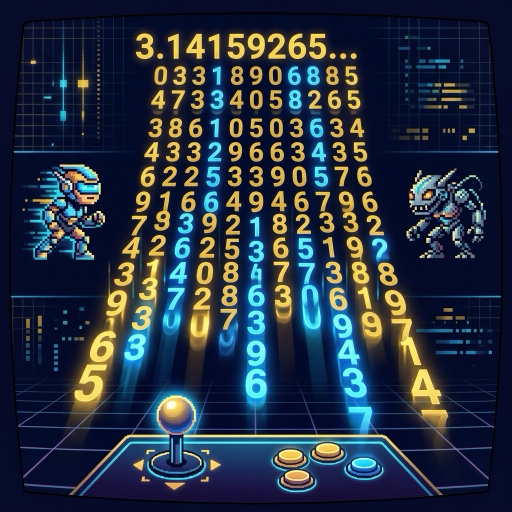
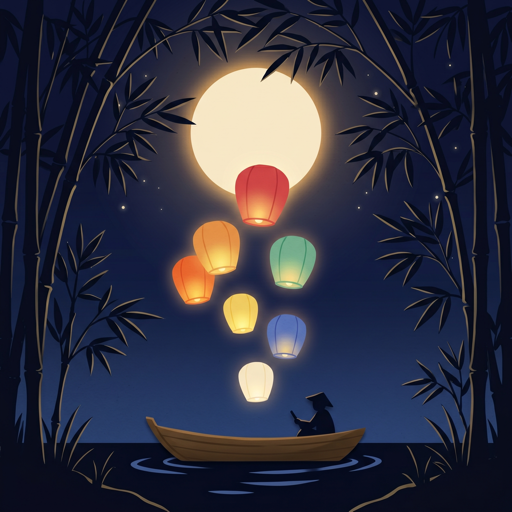
Moon lit ready (#13)
* promote moon-lit

* Promote moon-lit logo

Pull request: Moon lit ready

diff --git a/profile.html b/profile.html
@@ -36,6 +36,8 @@
     <meta name="apple-mobile-web-app-capable" content="yes">
     <meta name="apple-mobile-web-app-status-bar-style" content="black-translucent">
     <meta name="apple-mobile-web-app-title" content="Paul's Arcade">
+    <link rel="shortcut icon" href="images/icon-192.png" type="image/png">
+    <link rel="icon" href="images/icon-192.png" type="image/png" sizes="192x192">
     <link rel="apple-touch-icon" href="images/icon-192.png">
     <link rel="preconnect" href="https://fonts.googleapis.com">
     <link rel="preconnect" href="https://fonts.gstatic.com" crossorigin>
@@ -797,6 +799,31 @@
 
             <div class="card-grid">
 
+                <!-- Moon Lit -->
+                <article class="project-card spotlight-card" id="card-moon-lit">
+                    <div class="project-card__image-wrap">
+                        <img class="project-card__image" src="images/moon-lit.png" alt="Moon Lit — paper lanterns drifting up through bamboo toward a full moon over a still river" loading="lazy">
+                    </div>
+                    <div class="project-card__body">
+                        <h3 class="project-card__name">Moon Lit</h3>
+                        <p class="project-card__subtitle">Lantern-Festival Bubble Shooter</p>
+                        <p class="project-card__desc">
+                            <strong>Send paper lanterns up to the trellis.</strong> A boatman launches glowing lanterns into a hex grid; match three or more of a color to clear them and drop the chains hanging beneath. The trellis presses down every six shots — clear it before the lanterns cross the dead-line.
+                        </p>
+                        <p class="project-card__kicker">Lantern festival under a moonlit sky.</p>
+                        <div class="tech-tags">
+                            <span class="tech-tag">HTML5 Canvas</span>
+                            <span class="tech-tag">JS</span>
+                            <span class="tech-tag">ES Modules</span>
+                            <span class="tech-tag">PWA</span>
+                        </div>
+                        <div class="card-actions">
+                            <a href="https://paulgibeault.github.io/moon-lit/" class="btn btn--play" target="_blank" rel="noopener" id="btn-play-moon-lit">▶ Play</a>
+                            <a href="https://github.com/paulgibeault/moon-lit" class="btn btn--code" target="_blank" rel="noopener" id="btn-code-moon-lit">&lt;/&gt; Code</a>
+                        </div>
+                    </div>
+                </article>
+
                 <!-- Pi Game -->
                 <article class="project-card" id="card-pi-game">
                     <div class="project-card__image-wrap">
@@ -894,32 +921,6 @@
                         <div class="card-actions">
                             <a href="https://paulgibeault.github.io/cozy-solitaire/" class="btn btn--play" target="_blank" rel="noopener" id="btn-play-cozy">▶ Play</a>
                             <a href="https://github.com/paulgibeault/cozy-solitaire" class="btn btn--code" target="_blank" rel="noopener" id="btn-code-cozy">&lt;/&gt; Code</a>
-                        </div>
-                    </div>
-                </article>
-
-                <!-- Moon Lit -->
-                <article class="project-card" id="card-moon-lit">
-                    <div class="project-card__image-wrap in-dev-wrap">
-                        <img class="project-card__image" src="images/moon-lit.png" alt="Moon Lit — paper lanterns drifting up through bamboo toward a full moon over a still river" loading="lazy">
-                        <div class="in-dev-banner" aria-label="In development">In Development</div>
-                    </div>
-                    <div class="project-card__body">
-                        <h3 class="project-card__name">Moon Lit</h3>
-                        <p class="project-card__subtitle">Lantern-Festival Bubble Shooter</p>
-                        <p class="project-card__desc">
-                            <strong>Send paper lanterns up to the trellis.</strong> A boatman launches glowing lanterns into a hex grid; match three or more of a color to clear them and drop the chains hanging beneath. The trellis presses down every six shots — clear it before the lanterns cross the dead-line.
-                        </p>
-                        <p class="project-card__kicker">Lantern festival under a moonlit sky.</p>
-                        <div class="tech-tags">
-                            <span class="tech-tag">HTML5 Canvas</span>
-                            <span class="tech-tag">JS</span>
-                            <span class="tech-tag">ES Modules</span>
-                            <span class="tech-tag">PWA</span>
-                        </div>
-                        <div class="card-actions">
-                            <a href="https://paulgibeault.github.io/moon-lit/" class="btn btn--play" target="_blank" rel="noopener" id="btn-play-moon-lit">▶ Play</a>
-                            <a href="https://github.com/paulgibeault/moon-lit" class="btn btn--code" target="_blank" rel="noopener" id="btn-code-moon-lit">&lt;/&gt; Code</a>
                         </div>
                     </div>
                 </article>
@@ -1273,8 +1274,15 @@
     // PWA INSTALL — Service worker & install flow
     // ==========================================
     (function pwaInstall() {
+        const isLoopback = /^(127\.|localhost$|0\.0\.0\.0$|::1$)/.test(location.hostname);
         if ('serviceWorker' in navigator) {
-            navigator.serviceWorker.register('sw.js').catch(err => console.log('SW registration failed', err));
+            if (isLoopback) {
+                navigator.serviceWorker.getRegistrations()
+                    .then(rs => rs.forEach(r => r.unregister()))
+                    .catch(() => {});
+            } else {
+                navigator.serviceWorker.register('sw.js').catch(err => console.log('SW registration failed', err));
+            }
         }
 
         const installBtn = document.getElementById('install-btn');

diff --git a/index.html b/index.html
@@ -25,7 +25,7 @@
     </script>
     <meta name="viewport" content="width=device-width, initial-scale=1.0">
     <title>Paul's Arcade</title>
-    <meta name="description" content="Paul's Arcade — browser games by Paul Gibeault. Pi Game, Silicon Syndicate, HecknSic, Cozy Solitaire, Moon Lit. No installs, no signups, plays in your browser.">
+    <meta name="description" content="Paul's Arcade — browser games by Paul Gibeault. Moon Lit, Silicon Syndicate, HecknSic, Cozy Solitaire, Pi Game. No installs, no signups, plays in your browser.">
     <meta name="author" content="Paul Gibeault">
     <meta property="og:title" content="Paul's Arcade">
     <meta property="og:description" content="Browser games by Paul Gibeault. No installs, no signups, plays in your browser.">
@@ -36,6 +36,8 @@
     <meta name="apple-mobile-web-app-capable" content="yes">
     <meta name="apple-mobile-web-app-status-bar-style" content="black-translucent">
     <meta name="apple-mobile-web-app-title" content="Paul's Arcade">
+    <link rel="shortcut icon" href="images/icon-192.png" type="image/png">
+    <link rel="icon" href="images/icon-192.png" type="image/png" sizes="192x192">
     <link rel="apple-touch-icon" href="images/icon-192.png">
     <link rel="preconnect" href="https://fonts.googleapis.com">
     <link rel="preconnect" href="https://fonts.gstatic.com" crossorigin>
@@ -331,42 +333,41 @@
     <!-- Game list is mirrored in profile.html (#games section). Update both when adding games. -->
     <div id="view-launcher">
         <div class="launcher-grid" id="launcher-grid-container">
-            <a href="https://paulgibeault.github.io/pi-game/" class="launcher-btn" data-game-id="pi-game" style="animation-delay: 0.0s">
+            <a href="https://paulgibeault.github.io/moon-lit/" class="launcher-btn spotlight-card" data-game-id="moon-lit" style="animation-delay: 0.0s">
+                <div class="launcher-btn__image-wrap">
+                    <img class="launcher-btn__image" src="images/moon-lit.png" alt="Moon Lit">
+                </div>
+                <div class="launcher-btn__body">
+                    <h3 class="launcher-btn__name">Moon Lit</h3>
+                    <p class="launcher-btn__subtitle">Lantern matching</p>
+                </div>
+            </a>
+            <a href="https://paulgibeault.github.io/pi-game/" class="launcher-btn" data-game-id="pi-game" style="animation-delay: 0.1s">
                 <div class="launcher-btn__image-wrap"><img class="launcher-btn__image" src="images/pi-game.png" alt="Pi Game"></div>
                 <div class="launcher-btn__body">
                     <h3 class="launcher-btn__name">Pi Game</h3>
                     <p class="launcher-btn__subtitle">Memorization</p>
                 </div>
             </a>
-            <a href="https://paulgibeault.github.io/si-syn/" class="launcher-btn" data-game-id="si-syn" style="animation-delay: 0.1s">
+            <a href="https://paulgibeault.github.io/si-syn/" class="launcher-btn" data-game-id="si-syn" style="animation-delay: 0.2s">
                 <div class="launcher-btn__image-wrap"><img class="launcher-btn__image" src="images/si-syn.png" alt="Silicon Syndicate"></div>
                 <div class="launcher-btn__body">
                     <h3 class="launcher-btn__name">Si Syndicate</h3>
                     <p class="launcher-btn__subtitle">Assembly Logic</p>
                 </div>
             </a>
-            <a href="https://paulgibeault.github.io/hecknsic/" class="launcher-btn" data-game-id="hecknsic" style="animation-delay: 0.2s">
+            <a href="https://paulgibeault.github.io/hecknsic/" class="launcher-btn" data-game-id="hecknsic" style="animation-delay: 0.3s">
                 <div class="launcher-btn__image-wrap"><img class="launcher-btn__image" src="images/hecknsic.png" alt="HecknSic"></div>
                 <div class="launcher-btn__body">
                     <h3 class="launcher-btn__name">HecknSic</h3>
                     <p class="launcher-btn__subtitle">Hex Puzzle</p>
                 </div>
             </a>
-            <a href="https://paulgibeault.github.io/cozy-solitaire/" class="launcher-btn" data-game-id="cozy-solitaire" style="animation-delay: 0.3s">
+            <a href="https://paulgibeault.github.io/cozy-solitaire/" class="launcher-btn" data-game-id="cozy-solitaire" style="animation-delay: 0.4s">
                 <div class="launcher-btn__image-wrap"><img class="launcher-btn__image" src="images/cozy-solitaire.png" alt="Cozy Solitaire"></div>
                 <div class="launcher-btn__body">
                     <h3 class="launcher-btn__name">Solitaire</h3>
                     <p class="launcher-btn__subtitle">Card Games</p>
-                </div>
-            </a>
-            <a href="https://paulgibeault.github.io/moon-lit/" class="launcher-btn" data-game-id="moon-lit" style="animation-delay: 0.4s">
-                <div class="launcher-btn__image-wrap in-dev-wrap">
-                    <img class="launcher-btn__image" src="images/moon-lit.png" alt="Moon Lit">
-                    <div class="in-dev-banner" aria-label="In development">In Development</div>
-                </div>
-                <div class="launcher-btn__body">
-                    <h3 class="launcher-btn__name">Moon Lit</h3>
-                    <p class="launcher-btn__subtitle">Lantern Shooter</p>
                 </div>
             </a>
         </div>

diff --git a/styles.css b/styles.css
@@ -375,6 +375,21 @@ body.app-in-game .launcher-menu[data-open="true"] .launcher-menu__panel {
     white-space: nowrap;
 }
 
+/* ---- Spotlight highlight for featured/promoted items ---- */
+.spotlight-card {
+    border-color: rgba(229, 193, 88, 0.65) !important;
+    box-shadow: 
+        0 8px 32px rgba(0, 0, 0, 0.4),
+        0 0 25px rgba(229, 193, 88, 0.22) !important;
+}
+
+.spotlight-card:hover {
+    border-color: var(--field-gold) !important;
+    box-shadow:
+        0 12px 40px rgba(0, 0, 0, 0.4),
+        0 0 30px var(--field-gold-dim) !important;
+}
+
 /* On the mobile compact launcher row (square 80px image-wrap), shrink. */
 @media (max-width: 480px) {
     .launcher-btn .in-dev-banner {

diff --git a/sw.js b/sw.js
@@ -1,4 +1,4 @@
-const CACHE_NAME = 'paul-arcade-v10';
+const CACHE_NAME = 'paul-arcade-v14';
 const ASSETS_TO_CACHE = [
   './',
   './index.html',